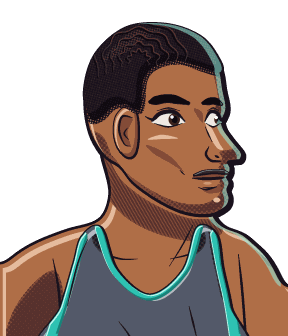
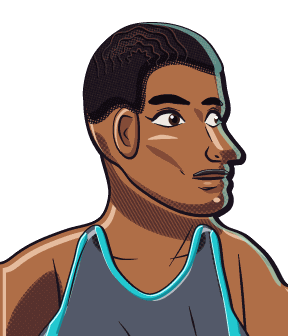
P11-B1: Present story portraits match their sheets
The LG3 portrait rows now match tools/art/crews.json: Switch has an ink tank
with teal trim, Skylight a deep teal tank with white trim, Stretch light skin
and Zigzag brown curls. PRESENT_PALETTES now uses the crews.json teal and coral
ramps and adds ERA3_DEEP_TEAL. Reran --legends present, which redrew the 12
Present portraits and docs/art/legends_present_portraits.png. The Present
"look" texts are fixed, and the board name table says Bastien.

Claude-Session: https://claude.ai/code/session_01K8WPuYbTD1xrCASynmgFd3

Changed region(s): [[0.625, 0.6548, 0.8438, 1.0], [0.25, 0.6845, 0.625, 0.8929], [0.1562, 0.8333, 0.25, 1.0]]

diff --git a/tools/art/make_portraits_v2.py b/tools/art/make_portraits_v2.py
@@ -2064,8 +2064,9 @@ def fathers_kit(players, pal, skins):
 # portraits do not depend on crews.json; when crews.json has a player with the same id (P11-14), his skin, hair and
 # kit colors win (present_kit(), the same keys as the Fathers'), so a rerun follows the sheets.
 PRESENT_PALETTES = {
-    "ERA3_TEAL": ["#a4f2e6", "#2ec2b2", "#17837a", "#0b4644"],
-    "ERA3_CORAL": ["#ffc8b4", "#ff7d62", "#cc4c3e", "#6e2622"],
+    "ERA3_TEAL": ["#b4fbff", "#22c8d0", "#138e9c", "#0a5260"],
+    "ERA3_DEEP_TEAL": ["#5ec4d4", "#16788e", "#0e5064", "#072c3a"],
+    "ERA3_CORAL": ["#ffc4b2", "#ff7e68", "#d24c44", "#7c2426"],
     "ERA3_GRAPHITE": ["#8c92a2", "#545a6a", "#343844", "#1c1e26"],
     "ERA3_INK": ["#5a5e6c", "#2a2c36", "#1a1b22", "#0c0c10"],
     "ERA3_LIGHT": ["#ffffff", "#e8f0ff", "#b8c4e8", "#6c78a0"],
@@ -2081,23 +2082,23 @@ LG3 = {
                        broad=1.18, sx=1.08, sxn=1.18, cy=134, jaw=5, chin=2, crown=-1, nose=1.0, wide=0.5, tilt=1.0,
                        hair="manbun", hair_pal="HAIR_BROWN", brow_w=1.3, iris=(96, 110, 80)),
     # stretch big: medium build, close-cropped dark hair (never blond), a short boxed beard
-    "lg_stretch": dict(name="STRETCH", skin="tan", top="tank", top_pal="ERA3_LIGHT", trim_pal="ERA3_TEAL",
+    "lg_stretch": dict(name="STRETCH", skin="light", top="tank", top_pal="ERA3_LIGHT", trim_pal="ERA3_TEAL",
                        broad=1.02, sx=0.96, sy=1.08, sxn=1.02, cy=134, jaw=2, chin=2, crown=1, nose=1.5, wide=0.3,
                        tilt=2.0, hair="crop", hair_pal="HAIR_DARK", brow=(22, 14, 14), brow_w=1.2,
                        extras={"boxed_beard": "HAIR_DARK"}),
     # two-way wing: long and lean, bald, a short boxed beard, bare arms
-    "lg_switch": dict(name="SWITCH", skin="deep", top="tank", top_pal="ERA3_TEAL", trim_pal="ERA3_LIGHT",
+    "lg_switch": dict(name="SWITCH", skin="deep", top="tank", top_pal="ERA3_INK", trim_pal="ERA3_TEAL",
                       broad=0.96, sx=0.94, sy=1.06, sxn=0.98, cy=136, jaw=1, chin=2, wide=0.9, lips=True, tilt=2.0,
                       hair="bald", brow=(14, 8, 10), brow_w=1.2, extras={"boxed_beard": "HAIR_BLACK"}),
     # rim-running big: athletic, a squared high-top over faded sides
-    "lg_skylight": dict(name="SKYLIGHT", skin="umber", top="tank", top_pal="ERA3_INK", trim_pal="ERA3_CORAL",
+    "lg_skylight": dict(name="SKYLIGHT", skin="umber", top="tank", top_pal="ERA3_DEEP_TEAL", trim_pal="ERA3_LIGHT",
                         broad=1.14, sx=1.06, sxn=1.14, cy=138, jaw=4, chin=1, crown=-1, wide=1.1, lips=True,
                         tilt=1.0, hair="flattop", hair_pal="HAIR_BLACK", flat_top=-108, fade=True, seed=19,
                         brow=(14, 8, 10), brow_w=1.3),
     # slasher: slim, short curls, no headband (the knee sleeve is below the bust)
     "lg_zigzag": dict(name="ZIGZAG", skin="tan", top="tank", top_pal="ERA3_LIGHT", trim_pal="ERA3_CORAL",
                       broad=0.9, sx=0.92, sy=1.0, cy=140, jaw=-3, chin=0, nose=0.5, wide=0.4, tilt=4.0,
-                      hair="curls", hair_pal="HAIR_INK", curl_rx=58.0, curl_ry=46.0, seed=58, brow=(20, 12, 14)),
+                      hair="curls", hair_pal="HAIR_BROWN", curl_rx=58.0, curl_ry=46.0, seed=58, brow=(20, 12, 14)),
 }
 LG3_RIM = (150, 240, 222)
 LG3_SHEET = os.path.join(ROOT, "docs", "art", "legends_present_portraits.png")

diff --git a/docs/BOARD.md b/docs/BOARD.md
@@ -65,7 +65,7 @@ and the Hall; so Chapter 3 is mostly data, art, story and one era twist):
   | Ozren "Stretch" Halvorsen, stretch big, **shaggy hair** | seven-foot European shooting big with shaggy hair is one famous big's look (and another's type) | first name **Sigurd** (owner after P11-02); close-cropped dark hair (never blond), a short boxed beard, medium build; no one-leg fadeaway |
   | **Idris** "Switch" Achterberg, two-way wing, long arms, short twists | "Idris" points at a famous actor; the quiet long-armed wing who steals and runs is one famous current forward's type | first name **Ellery**; bald with a short beard, bare arms (twists stay Ankles') |
   | Bodie "Skylight" **Ferreira**, rim-running big | Ferreira is a real player's surname (Rolando Ferreira, flagged in Phase 9) | surname **Castellano**; high-top fade kept |
-  | **Santi** "Zigzag" Moreau, slasher, **headband** | "Santi" is how a current player is known (first name only, allowed, but very current); the headband is already Ankles' and Freight's | first name **Lucien**; curly hair, a knee sleeve, no headband |
+  | **Santi** "Zigzag" Moreau, slasher, **headband** | "Santi" is how a current player is known (first name only, allowed, but very current); the headband is already Ankles' and Freight's | first name **Bastien** (was Lucien; VISION "Phase 11 Zigzag first name"); curly hair, a knee sleeve, no headband |
 - **Chapters 1-2 and the rest of the game play exactly as in Phase 10.** No game-sim change outside P11-12 (SPACE THE
   FLOOR), P11-17 (signature moves) and P11-22 (mentor perks); the era teams (P11-32..34) only add Quick Game choices, a
   Quick Game with the Phase 10 crews and courts plays as before. Every new hook is a
@@ -353,7 +353,7 @@ Everything below (Tasks by wave).
   | the lists extended with today's players (NBA and WNBA stars of about 2015-2026), their nicknames, and their famous
   celebrations and slogans (as words that must never appear); `NUMBER_AVOID` reviewed for the era (numbers a shipped
   legend wears stay legal: they passed their own check); the six chosen names (P1 a: Calloway "Deep End" Whitlock, Theo
-  "Toolbox" Lindqvist, Ozren (now Sigurd) "Stretch" Halvorsen, Ellery "Switch" Achterberg, Bodie "Skylight" Castellano, Lucien
+  "Toolbox" Lindqvist, Ozren (now Sigurd) "Stretch" Halvorsen, Ellery "Switch" Achterberg, Bodie "Skylight" Castellano, Bastien
   "Zigzag" Moreau; first, last and nickname each) run through step 1 (every NBA and WNBA player) and the lists, the
   flagged draft names (Briggs, Swiss Knife, Idris, Ferreira, Santi) kept as probes that must fail; a table like Chapter
   2's with each verdict; the look combinations checked in words (the board's six risky sets, on the chosen looks); a
@@ -660,7 +660,7 @@ Everything below (Tasks by wave).
   970; one line on the Quick Game panel, two in the pause panel), the step-back and a Euro-step, the Hall's three rows
   and picker, the draft's three rows pass. Plate ink: no change needed (3.4:1; optional `plate_text` "#fff3e8").
   Bugs P11-B1, P11-B2. 5 `--autoplay` 9:25 mean, 53%; 2 `--humantest` 21-13.
-- **P11-B1** | Story portraits of Switch and Skylight wear the wrong kits (Low-medium, art)
+- **P11-B1** | REVIEW (portrait rows now match crews.json: Switch ink/teal, Skylight deep teal/white, Stretch light skin, Zigzag brown curls; the teal and coral ramps follow the sheets, so all 12 Present portraits and the contact sheet were redrawn, no other chapter touched; the Present `"look"` texts fixed; LEGENDTEST OK) | Story portraits of Switch and Skylight wear the wrong kits (Low-medium, art)
   | art (portraits) | `tools/art/make_portraits_v2.py` (lines 2089, 2093, Stretch's row), `assets/portraits/lg_switch*`,
   `lg_skylight*`, `lg_stretch*`, `docs/art/legends_present_portraits.png`
   | cause: the portrait rows differ from `tools/art/crews.json` (888, 896, 878): Switch teal/light (sheet ink/teal),
